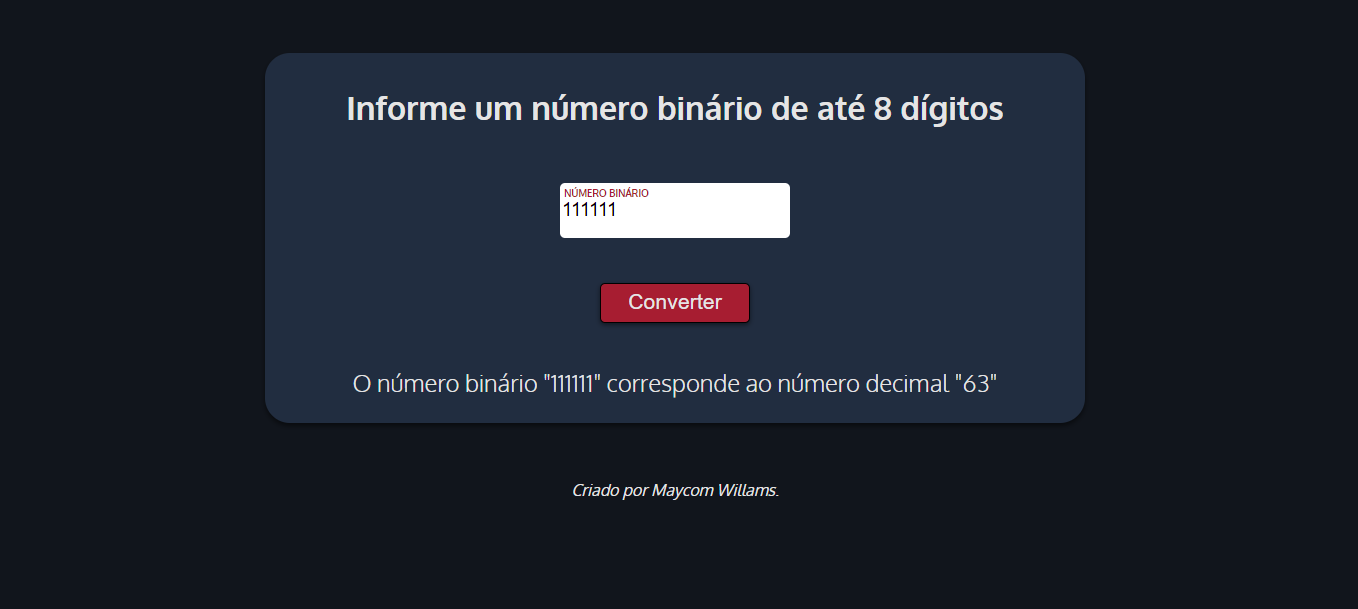
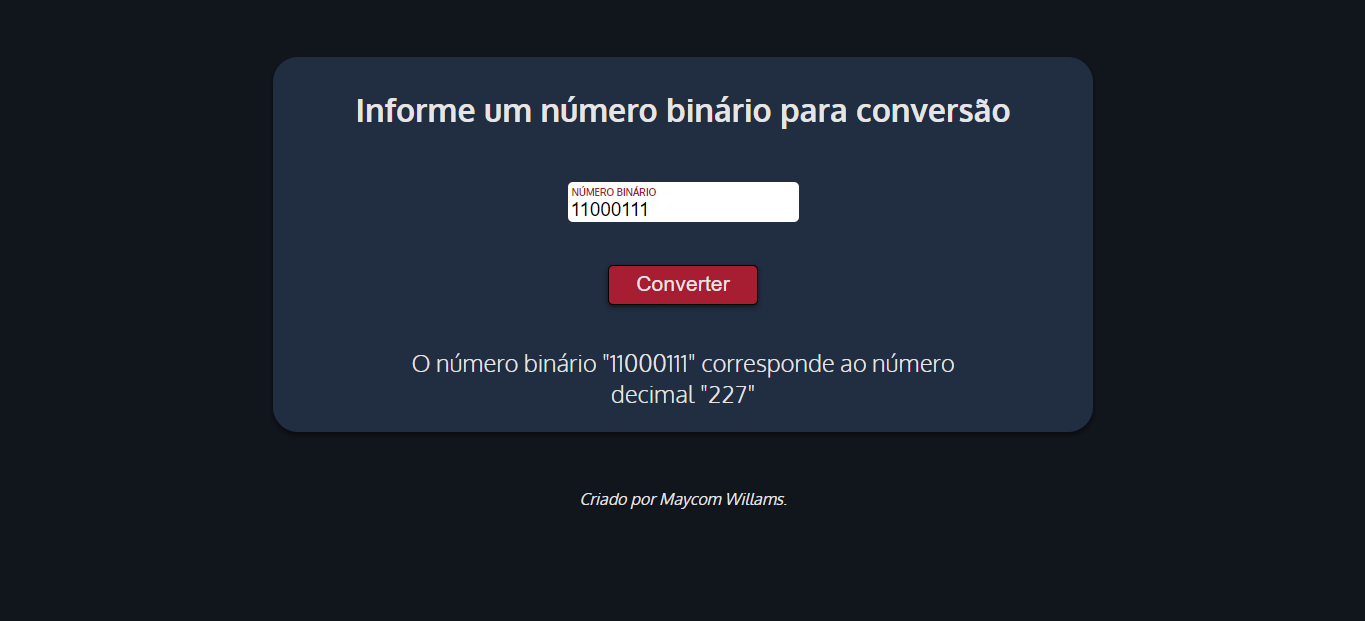
Remoção da limitação de 8 dígitos
Utilização do método "reduce" no array para evitar a criação de diversas funções para cada índice do array. Removendo assim a limitação de 8 dígitos inicialmente imposta pela limitação do código.

diff --git a/bin2dec.js b/bin2dec.js
@@ -2,9 +2,6 @@ const numberBinary = document.getElementById('bI');
 const button = document.getElementById('buttonConverter');
 var resultText = document.getElementById('resultText').innerText;
 
-
-
-
 var binaryNumber;
 var binaryArrayString;
 var binaryArrayNumber = [];
@@ -21,91 +18,9 @@ function binary(event) {
 function converter() {
 
     binaryArrayNumber = binaryArrayString.map(Number);
-    console.log(binaryArrayNumber);
-
-    if (binaryArrayNumber.length <= 8) {
-        switch(binaryArrayString.length){
-            case 1:
-                oneDig();
-            break;
-            case 2:
-                twoDig();
-            break;
-            case 3:
-                threeDig();
-            break;
-            case 4:
-                fourDig();
-            break;
-            case 5:
-                fiveDig();
-            break;
-            case 6:
-                sixDig();
-            break;
-            case 7:
-                sevenDig();
-            break;
-            case 8:
-                eightDig();
-            break; 
-    };
-    } else{
-    document.getElementById('resultText').innerText = "A quantidade de números digitados é inválida."
-    };
-
-}
-
-function oneDig() {
-    resultado = binaryArrayNumber[0] * (2**0);
-    console.log(resultado);
-    document.getElementById('resultText').innerText = `O número binário "${binaryNumber}" corresponde ao número decimal "${resultado}"`;
-}
-
-function twoDig() {
-    resultado = binaryArrayNumber[1] * (2**0) + binaryArrayNumber[0] * (2**1);
-    console.log(resultado)
-    document.getElementById('resultText').innerText = `O número binário "${binaryNumber}" corresponde ao número decimal "${resultado}"`;
-}
-
-function threeDig() {
-    resultado = binaryArrayNumber[2] * (2**0) + binaryArrayNumber[1] * (2**1) + binaryArrayNumber[0] * (2**2);
-    console.log(resultado)
-    document.getElementById('resultText').innerText = `O número binário "${binaryNumber}" corresponde ao número decimal "${resultado}"`;
-}
-
-
-function fourDig() {
-    resultado = binaryArrayNumber[3] * (2**0) + binaryArrayNumber[2] * (2**1) + binaryArrayNumber[1] * (2**2) + binaryArrayNumber[0] * (2**3);
-    console.log(resultado)
-    document.getElementById('resultText').innerText = `O número binário "${binaryNumber}" corresponde ao número decimal "${resultado}"`;
-}
-
-
-function fiveDig() {
-    resultado = binaryArrayNumber[4] * (2**0) + binaryArrayNumber[3] * (2**1) + binaryArrayNumber[2] * (2**2) + binaryArrayNumber[1] * (2**3) + binaryArrayNumber[0] * (2**4);
-    console.log(resultado)
-    document.getElementById('resultText').innerText = `O número binário "${binaryNumber}" corresponde ao número decimal "${resultado}"`;
-}
-
-
-function sixDig() {
-    resultado = binaryArrayNumber[5] * (2**0) + binaryArrayNumber[4] * (2**1) + binaryArrayNumber[3] * (2**2) + binaryArrayNumber[2] * (2**3) + binaryArrayNumber[1] * (2**4) + binaryArrayNumber[0] * (2**5);
-    console.log(resultado)
-    document.getElementById('resultText').innerText = `O número binário "${binaryNumber}" corresponde ao número decimal "${resultado}"`;
-}
-
-
-function sevenDig() {
-    resultado = binaryArrayNumber[6] * (2**0) + binaryArrayNumber[5] * (2**1) + binaryArrayNumber[4] * (2**2) + binaryArrayNumber[3] * (2**3) + binaryArrayNumber[2] * (2**4) + binaryArrayNumber[1] * (2**5) + binaryArrayNumber[0] * (2**6);
-    console.log(resultado)
-    document.getElementById('resultText').innerText = `O número binário "${binaryNumber}" corresponde ao número decimal "${resultado}"`;
-}
-
-
-function eightDig() {
-    resultado = binaryArrayNumber[7] * (2**0) + binaryArrayNumber[6] * (2**1) + binaryArrayNumber[5] * (2**2) + binaryArrayNumber[4] * (2**3) + binaryArrayNumber[3] * (2**4) + binaryArrayNumber[2] * (2**5) + binaryArrayNumber[1] * (2**6) + binaryArrayNumber[0] * (2**7);
-    console.log(resultado)
+    const resultado = binaryArrayNumber.reduce (
+        (resultado, proximoNumero, idx) => resultado + proximoNumero * Math.pow(2, idx)
+    )
     document.getElementById('resultText').innerText = `O número binário "${binaryNumber}" corresponde ao número decimal "${resultado}"`;
 }
 

diff --git a/styles.css b/styles.css
@@ -38,12 +38,13 @@ body{
 }
 #bI{
     width: 100%;
-    height: 55px;
+    height: 40px;
     border-radius: 5px;
     border: none;
     outline: none;
     font-size: 14pt;
-    padding-left: 2px;
+    padding-top: 15px;
+    padding-left: 3px;
 }
 
 #label-input > span{
@@ -52,7 +53,7 @@ body{
     color: #11151C;
     font-weight: 600;
     text-transform: uppercase;
-    margin: 19.5px 10px;
+    margin: 12px 10px;
     cursor:text;
     transition: all 500ms ease;
 }
@@ -88,6 +89,8 @@ body{
     font-weight: 300;
     text-align: center;
     transition: all 250ms ease-in-out;
+    max-width: 100%;
+    width: 600px;
 }
 
 .footer{
@@ -107,5 +110,7 @@ body{
 
     .resultDiv{
         font-size: 14pt;
+        max-width: 290px;
+        width: 100%;
     }  
 }

diff --git a/index.html b/index.html
@@ -10,7 +10,7 @@
 </head>
 <body>
     <div class="main-card">
-        <h1>Informe um número binário de até 8 dígitos</h1>
+        <h1>Informe um número binário para conversão</h1>
             <label id="label-input">
             <span>Número binário</span>
             <input type="number" name="binaryInput" id="bI" data-ls-module="charCounter" maxlength="8" >
